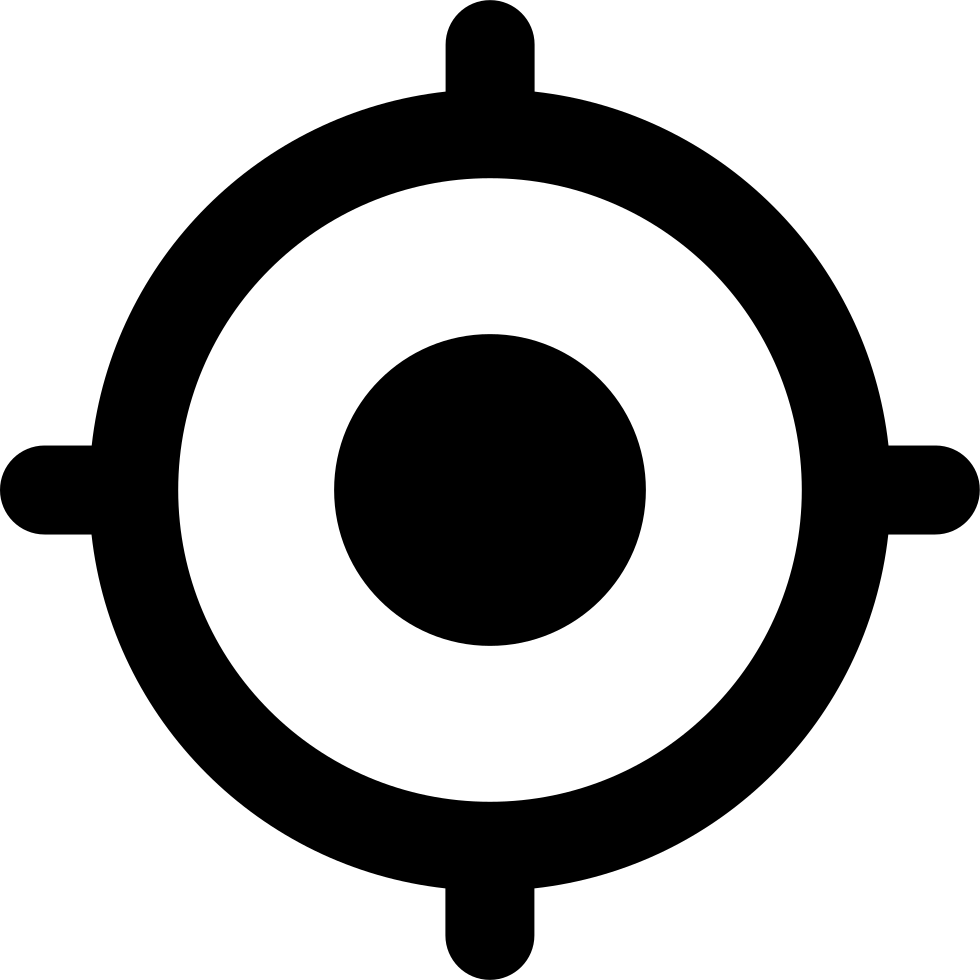
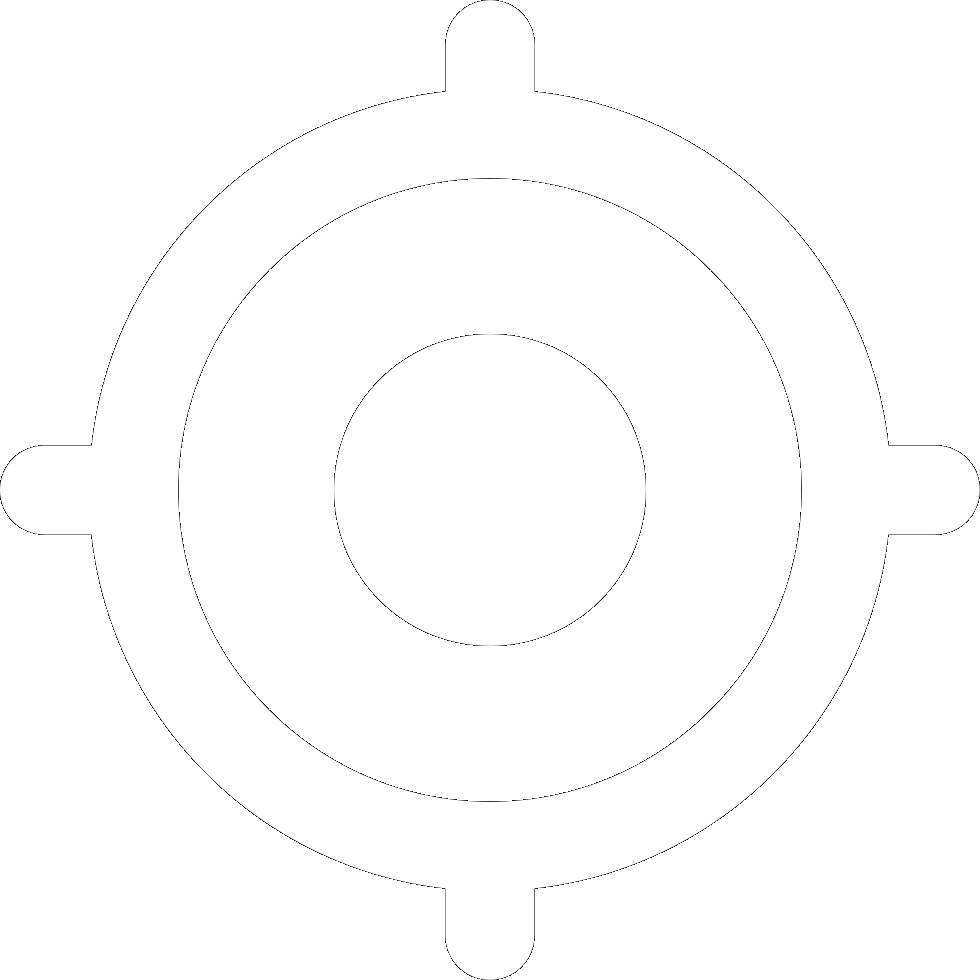
UI Update

diff --git a/public/styles.css b/public/styles.css
@@ -76,20 +76,27 @@ h1 {
 }
 
 #inputs button img {
-    height: 50%;
     display: block;
     margin: auto;
 }
 
 #inputs button#submit {
-    background-color: #fff;
-    box-shadow: 10px 10px 0px 0px #fff;
+    overflow: hidden;
+    box-shadow: 10px 10px 0 0 #fff;
     width: 12%;
 }
 
+#inputs button#submit img {
+    height: 70%;
+    box-shadow: 0 0 0 100px #fff;
+}
+
 #inputs button#locate {
-    filter: invert(1);
     width: 10%;
+}
+
+#inputs button#locate img {
+    height: 50%;
 }
 
 #inputs button#switch {
